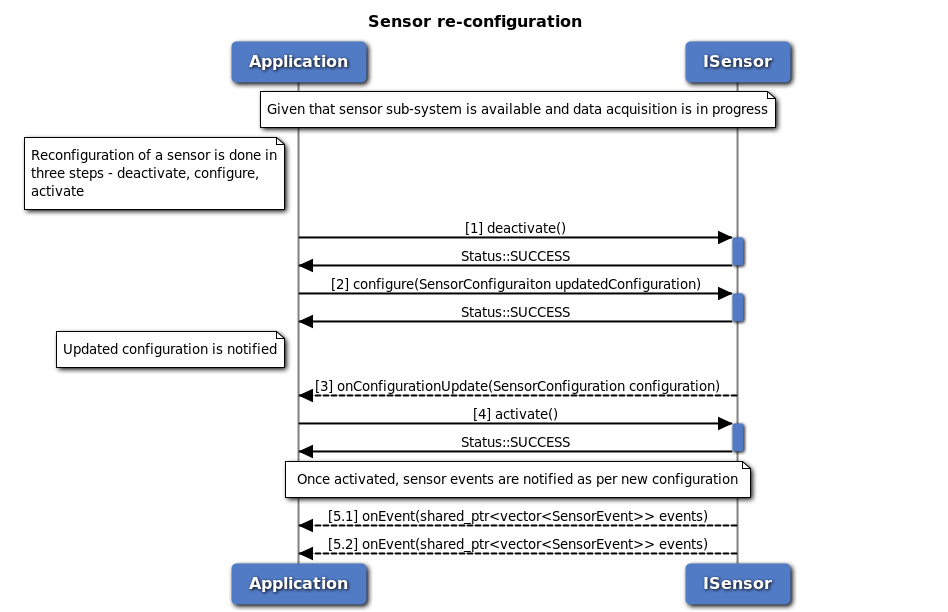
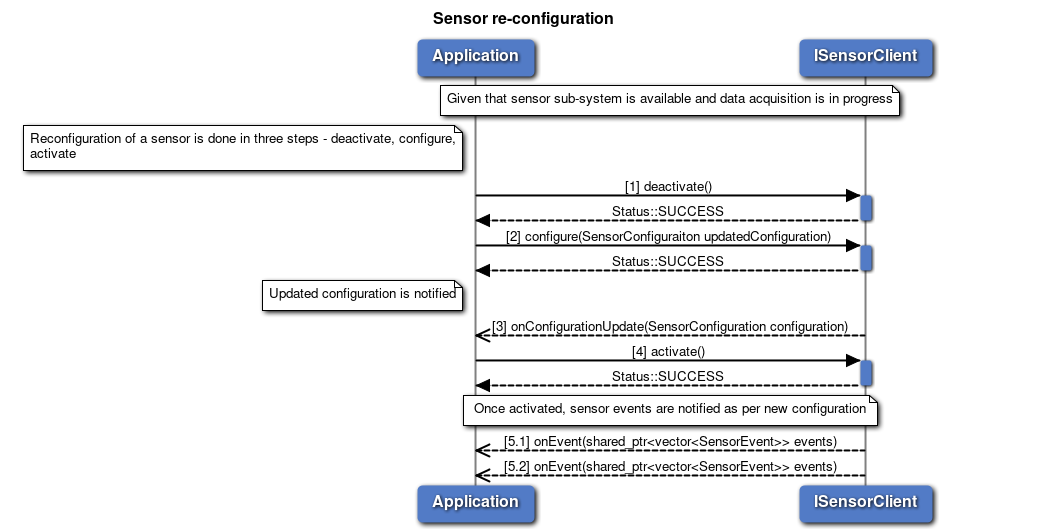
telux: Updating callflows for deprecated APIs.
CRs-Fixed: 4535013

Changed region(s): [[0.0, 0.0, 0.9177, 0.9962]]

diff --git a/qdocs/api_reference/general/call_flow_diagrams.rst b/qdocs/api_reference/general/call_flow_diagrams.rst
@@ -2797,26 +2797,6 @@ objects have been created, the following steps ensure a cleanup of the sensor su
 5. Release the instance of ISensorFeatureManager by setting it to nullptr. Since the application
    owns the object, this would result in the sensor feature manager getting destroyed.
 
-Call flow for sensor power control
-~~~~~~~~~~~~~~~~~~~~~~~~~~~~~~~~~~
-
-.. figure:: /../images/sensor_power_control_call_flow.png
-
-The below points are to be noted for sensor power control
-
-a) Power control is not offered by all sensor manufacturers. If the underlying hardware sensor does
-not support power control, the power control APIs fail.
-b) Enabling or disabling low power mode for the sensor is only possible when the sensor is not
-activated.
-
-For achieving power control, the following steps are to be followed
-
-1. Deactivate the sensor. This will stop the notifications about sensor events to the registered
-   listeners.
-2. Perform the required power control by enabling or disabling low power mode for the sensor.
-3. Activate the sensor.
-4. When the sensor is activated successfully, the sensor data is sent to the registered listeners.
-
 Call flow for sensor feature control
 ~~~~~~~~~~~~~~~~~~~~~~~~~~~~~~~~~~~~
 
